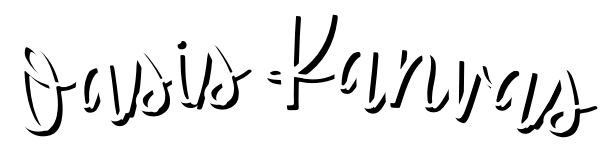
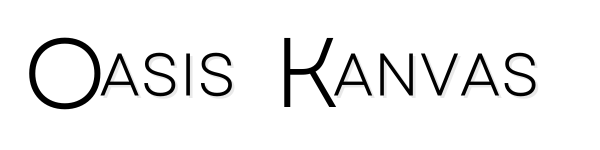
Modify stylesheet, index, and added images

Changed region(s): [[0.45, 0.0822, 1.0, 0.9589], [0.03, 0.2466, 0.42, 0.9315]]

diff --git a/index.html b/index.html
@@ -8,12 +8,19 @@
     <link rel="stylesheet" href="css/style.css">
 </head>
 
+<style>
+  .wrap {
+    float: right; 
+    margin: 5px;
+   }
+ </style>
+
 <body>
 
 <header><nav class="navbar navbar-expand-lg bg-body-tertiary">
     <div class="container">
       <a class="navbar-brand" href="#">
-        <img src="images/OKlogo.png" alt="Oasis Kanvas Logo" width="75" height="75"/></a>
+        <img src="images/Oasis Kanvas.png" alt="Oasis Kanvas Logo" width="400" height="90"/></a>
       <button class="navbar-toggler" type="button" data-bs-toggle="collapse" data-bs-target="#navbarSupportedContent" aria-controls="navbarSupportedContent" aria-expanded="false" aria-label="Toggle navigation">
         <span class="navbar-toggler-icon"></span>
       </button>
@@ -49,7 +56,7 @@
 <main class="container">
     <div class="row">
         <div class="col">
-          <h1><img src="images/Oasis Kanvas.png" alt="Oasis Kanvas" width="600" height="140" /></h1>
+          <h1></h1>
             
             <hr>
             
@@ -59,16 +66,47 @@
     <div class="row">
         <div class="col">
             <div id="hero">
+              <div class="wrap">
                 <h2></h2>
-                <img style="border: 2px solid #000000; padding-top: 0px; padding-right: 0 px; padding-bottom: 0px; padding-left: 0px; float:left;" src="images/daisy-arriero.jpg" alt="arriero" width="540" height="540" />
-              
-                <p> Meet Oasis Kanvas, the creative force behind a world of artistic possibilities. Oasis specializes in crafting compelling designs
-                    for tattoo enthusiasts, sticker aficionados, sketch lovers, and digital art enthusiasts. With a passion for turning ideas into 
-                    captivating visuals, Oasis brings imagination to life with every stroke of the digital pen and pencil. Beyond design, Oasis is also
-                     dedicated to nurturing creativity through comprehensive teaching materials. Whether you're looking to adorn your body with unique 
-                     ink, add flair to your belongings with custom stickers, capture moments through evocative sketches, or bring your wildest digital 
-                     art dreams to reality, Oasis Kanvas is your artistic ally. Join Oasis on this visual journey and let your imagination flourish in 
-                     a world of endless creativity.
+
+                <img src="images/daisy-arriero.jpg" alt="arriero" width="540" height="540" /></p>
+              </div>
+                
+                <p> Welcome to the vibrant world of artistry, where creativity knows no bounds! 
+                    This Oasis Kanvas, your artistic companion on a journey of self-expression and design.
+                    As an avid creator and passionate artist, I specialize in providing design services for 
+                    tattoo designs, stickers, sketches, digital paintings, and educational materials. <br> <br>
+                  
+                    My creative oasis is where imagination meets skill, and every canvas becomes a realm of infinite
+                    possibilities. With an unwavering commitment to turning ideas into art, I embrace each project with 
+                    enthusiasm and dedication.
+
+                    What I Offer:
+
+                    • Oasis Kanvas is dedicated to creating logos for small businesses and companies, with a 
+                      primary focus on branding design, ensuring that each logo tells a compelling visual story that sets brands apart.
+                    
+                    • Tattoo Designs: Your body is a canvas, and I'm here to help you tell your unique story through ink. From intricate 
+                      mandalas to bold tribal designs, I'll work closely with you to create a tattoo that reflects your individuality.
+
+                    • Stickers: Infuse a touch of art into your everyday life with custom stickers. Whether it's for personal expression or branding, I can design stickers that are not just adhesive but truly captivating.
+
+📝 **Sketches**: A sketch is the raw essence of an idea. I breathe life into your concepts, bringing them to life on paper. Sketches that tell stories, evoke emotions, and captivate the eye.
+
+🌌 **Digital Paintings**: In the digital realm, the possibilities are limitless. I'll turn your visions into breathtaking digital masterpieces, whether it's fantasy landscapes, character art, or abstract beauty.
+
+📚 **Teaching Materials**: Knowledge is power, and I love sharing the secrets of the art world. I offer a range of teaching materials and resources to help aspiring artists refine their skills and unlock their creative potential.
+
+Join Me on the Artistic Odyssey:
+🌟 Together, we'll embark on an artistic odyssey where your ideas are transformed into visual marvels. Let's collaborate, create, and celebrate the beauty of art.
+
+Connect with me, Oasis Kanvas, and let's bring your artistic dreams to life, one stroke at a time. Your imagination is my inspiration, and I'm eager to make your artistic visions a reality.
+
+📧 Contact: [Your Contact Information]
+🌐 Portfolio: [Your Website/Portfolio]
+📷 Follow Me: [Your Social Media Handles]
+
+#ArtisticJourney #TattooDesigns #Stickers #Sketches #DigitalPaintings #TeachingMaterials #CreativityUnleashed<img src="images/OKlogo.png" alt="Oasis Kanvas Logo" width="100" height="100"/>
                 </p>
             </div>
         </div>
@@ -76,54 +114,32 @@
 
 
 
-
-
-
-
-
-
-
 </main>
 
-
-
-
-
-
-
-
-
-
-
+<br>
+<br>
+<br>
+<br>
 
 <footer>
 
+  <div class="social">
+    <div style="text-align: center;">
+      <div style="padding-right: 5px;">
+        <a href="https://www.instagram.com/oasiskanvas/"><img src="images/iconmonstr-instagram-11-32.png"/></a>
+        <a href="https://api.whatsapp.com/send?phone=+13479758201&text=“Where+Creativity+Meets+Kanvas”+-+Let’s+create+together%21+"><img src="images/iconmonstr-whatsapp-1-32.png"/></a>
+        <a href="https://github.com/ltejedajr/Capstone1"><img src="images/iconmonstr-github-1-32.png"/></a>
+      </div>
+    </div>
+  </div>
 
+ <br>
 
-
+  <div style="text-align: center;font-style: italic;">
+    Oasis Kanvas © 2023
+  </div>
 
 </footer>
-
-
-
-
-
-
-
-
-
-
-
-
-
-
-
-
-
-
-
-
-
 
 
 

diff --git a/css/style.css b/css/style.css
@@ -13,11 +13,16 @@ h2 {
 }
 
 p {
-    font-family: 'Franklin Gothic Medium', 'Arial Narrow', Arial, sans-serif;
-    font-style: italic;
+    font-family: sans-serif;
+    font-style: normal;
     font-weight: lighter;
     font-size: large;
     text-indent: 60px;
     text-align: center;
 }
 
+
+link {
+    font-family: sans-serif;
+    font-style: italic;
+}
